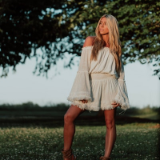
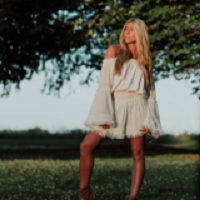
custom profile
custom profile

diff --git a/index.html b/index.html
@@ -450,10 +450,9 @@
                         <div class="bx-wrapper" style="max-width: 100%; margin: 0px auto;">
                             <div class="bx-viewport0" style="width: 100%; overflow: hidden; position: relative;">
                                 <div class="col-md-4">
-                                    <div class="img-avt">
+                                    <div class="img-avt-1">
                                         <div class="name-img">Mr.Peter Ngo</div>
                                     </div>
-
                                 </div>
                                 <div class="col-md-8">
                                     <div class="name-profile">
@@ -471,7 +470,7 @@
                             </div>
                             <div class="bx-viewport1" style="width: 100%; overflow: hidden; position: relative;">
                                 <div class="col-md-4">
-                                    <div class="img-avt">
+                                    <div class="img-avt-2">
                                         <div class="name-img">Mr.Peter Ngo</div>
                                     </div>
 
@@ -492,7 +491,7 @@
                             </div>
                             <div class="bx-viewport2" style="width: 100%; overflow: hidden; position: relative;">
                                 <div class="col-md-4">
-                                    <div class="img-avt">
+                                    <div class="img-avt-3">
                                         <div class="name-img">Mr.Peter Ngo</div>
                                     </div>
 
@@ -511,7 +510,7 @@
                             </div>
                             <div class="bx-viewport3" style="width: 100%; overflow: hidden; position: relative;">
                                 <div class="col-md-4">
-                                    <div class="img-avt">
+                                    <div class="img-avt-4">
                                         <div class="name-img">Mr.Peter Ngo</div>
                                     </div>
 
@@ -519,25 +518,6 @@
                                 <div class="col-md-8">
                                     <div class="name-profile">
                                         Mr. Azel Le
-                                    </div>
-                                    <div class="visual-profile">
-                                        CHAIRMAN
-                                    </div>
-                                    <div class="destails-profile">
-                                        Lorem ipsum dolor sit amet, consectetur adipiscing elit. Donec id nisi iaculis, ultrices nibh eu, ornare diam. Vivamus hendrerit ultricies purus, vel facilisis dui pulvinar sed. Ut et diam velit. In ac dui et nulla interdum pellentesque. Nulla porta dolor at urna posuere ullamcorper.
-                                    </div>
-                                </div>
-                            </div>
-                            <div class="bx-viewport4" style="width: 100%; overflow: hidden; position: relative;">
-                                <div class="col-md-4">
-                                    <div class="img-avt">
-                                        <div class="name-img">Mr. Alex Nguyen</div>
-                                    </div>
-
-                                </div>
-                                <div class="col-md-8">
-                                    <div class="name-profile">
-                                        Mr. Alex Nguyen
                                     </div>
                                     <div class="visual-profile">
                                         CHAIRMAN
@@ -557,6 +537,9 @@
                             <img src="assets/images/ava_TrungIzi.png" />
                         </div>
                         <div class="item2">
+                            <img src="assets/images/ava_TrungIzi.png" />
+                        </div>
+                        <div class="item3">
                             <img src="assets/images/ava_TrungIzi.png" />
                         </div>
                         <div class="item3">
@@ -782,7 +765,7 @@
                     nav: true
                 },
                 1024: {
-                    items: 6,
+                    items: 4,
                     nav: false,
 
                 }

diff --git a/assets/css/layout.css b/assets/css/layout.css
@@ -2343,19 +2343,19 @@ i.up {
     }
 
     #profile .table-cell .destails-profile {
-        font-size: 16px;
+        font-size: 14px;
     }
 
-.img-avt {
+.img-avt-1 {
     background-image: url(../images/ceo.png);
     /* width: 300px; */
-    height: 250px;
+    height: 290px;
     border: 1.5px solid #6c3a9d;
     background-size: cover;
     position: relative;
 }
 
-    .img-avt .name-img {
+    .img-avt-1 .name-img {
         position: absolute;
         font-weight: 600;
         bottom: 0px;
@@ -2365,7 +2365,63 @@ i.up {
         background-color: #6c3b9dd9;
         font-size: 20px;
     }
+.img-avt-2 {
+    background-image: url(../images/ceo-demo.jpg);
+    /* width: 300px; */
+    height: 290px;
+    border: 1.5px solid #6c3a9d;
+    background-size: cover;
+    position: relative;
+}
 
+    .img-avt-2 .name-img {
+        position: absolute;
+        font-weight: 600;
+        bottom: 0px;
+        text-align: center;
+        width: 100%;
+        line-height: 50px;
+        background-color: #6c3b9dd9;
+        font-size: 20px;
+    }
+    .img-avt-3 {
+    background-image: url(../images/ceo-demo.jpg);
+    /* width: 300px; */
+    height: 290px;
+    border: 1.5px solid #6c3a9d;
+    background-size: cover;
+    position: relative;
+}
+
+    .img-avt-3 .name-img {
+        position: absolute;
+        font-weight: 600;
+        bottom: 0px;
+        text-align: center;
+        width: 100%;
+        line-height: 50px;
+        background-color: #6c3b9dd9;
+        font-size: 20px;
+    }
+.img-avt-4 {
+    background-image: url(../images/ceo-demo.jpg);
+    /* width: 300px; */
+    height: 290px;
+    border: 1.5px solid #6c3a9d;
+    background-size: cover;
+    position: relative;
+}
+
+    .img-avt-4 .name-img {
+        position: absolute;
+        font-weight: 600;
+        bottom: 0px;
+        text-align: center;
+        width: 100%;
+        line-height: 50px;
+        background-color: #6c3b9dd9;
+        font-size: 20px;
+    }
 .bx-viewport1 {
     display: none;
 }

diff --git a/assets/css/style.css b/assets/css/style.css
@@ -18730,7 +18730,7 @@ yx-axis
 }
 
     .quote-creative-carousel .owl-stage-outer {
-        padding: 30px 0;
+        padding: 60px 0 0px 0px;
         text-align:center;
     }
 
